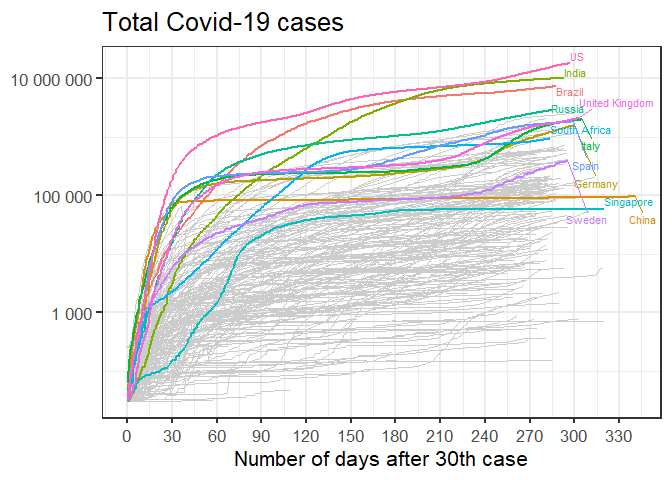
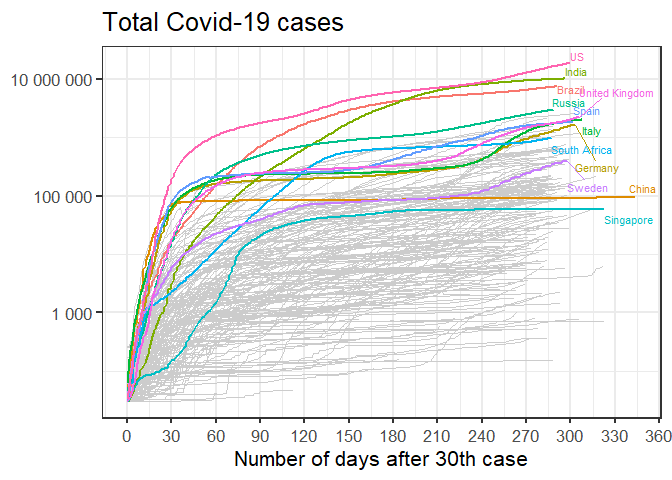
Refresh

diff --git a/README.md b/README.md
@@ -19,7 +19,7 @@ The data source is [a repository maintained by Johns Hopkins
 University](https://github.com/CSSEGISandData/COVID-19). The data is
 updated once per day.
 
-Last updated at 2020-12-24 06:52:18
+Last updated at 2020-12-27 17:14:47
 
 ## Total cases
 
@@ -27,16 +27,16 @@ Last updated at 2020-12-24 06:52:18
     #> # Groups:   country [1]
     #>    country      date         lat  long  cases
     #>    <chr>        <date>     <dbl> <dbl>  <dbl>
-    #>  1 South Africa 2020-12-14 -30.6  22.9 866127
-    #>  2 South Africa 2020-12-15 -30.6  22.9 873679
-    #>  3 South Africa 2020-12-16 -30.6  22.9 883687
-    #>  4 South Africa 2020-12-17 -30.6  22.9 892813
-    #>  5 South Africa 2020-12-18 -30.6  22.9 901538
-    #>  6 South Africa 2020-12-19 -30.6  22.9 912477
-    #>  7 South Africa 2020-12-20 -30.6  22.9 921922
-    #>  8 South Africa 2020-12-21 -30.6  22.9 930711
-    #>  9 South Africa 2020-12-22 -30.6  22.9 940212
-    #> 10 South Africa 2020-12-23 -30.6  22.9 954258
+    #>  1 South Africa 2020-12-17 -30.6  22.9 892813
+    #>  2 South Africa 2020-12-18 -30.6  22.9 901538
+    #>  3 South Africa 2020-12-19 -30.6  22.9 912477
+    #>  4 South Africa 2020-12-20 -30.6  22.9 921922
+    #>  5 South Africa 2020-12-21 -30.6  22.9 930711
+    #>  6 South Africa 2020-12-22 -30.6  22.9 940212
+    #>  7 South Africa 2020-12-23 -30.6  22.9 954258
+    #>  8 South Africa 2020-12-24 -30.6  22.9 968563
+    #>  9 South Africa 2020-12-25 -30.6  22.9 983359
+    #> 10 South Africa 2020-12-26 -30.6  22.9 994911
 
 ### Linear scale
 
@@ -70,16 +70,16 @@ indicates exponential growth.
     #> # Groups:   country [1]
     #>    country      date       deaths
     #>    <chr>        <date>      <dbl>
-    #>  1 South Africa 2020-12-14  23451
-    #>  2 South Africa 2020-12-15  23661
-    #>  3 South Africa 2020-12-16  23827
-    #>  4 South Africa 2020-12-17  24011
-    #>  5 South Africa 2020-12-18  24285
-    #>  6 South Africa 2020-12-19  24539
-    #>  7 South Africa 2020-12-20  24691
-    #>  8 South Africa 2020-12-21  24907
-    #>  9 South Africa 2020-12-22  25246
-    #> 10 South Africa 2020-12-23  25657
+    #>  1 South Africa 2020-12-17  24011
+    #>  2 South Africa 2020-12-18  24285
+    #>  3 South Africa 2020-12-19  24539
+    #>  4 South Africa 2020-12-20  24691
+    #>  5 South Africa 2020-12-21  24907
+    #>  6 South Africa 2020-12-22  25246
+    #>  7 South Africa 2020-12-23  25657
+    #>  8 South Africa 2020-12-24  25983
+    #>  9 South Africa 2020-12-25  26276
+    #> 10 South Africa 2020-12-26  26521
 
 ### Linear scale
 
